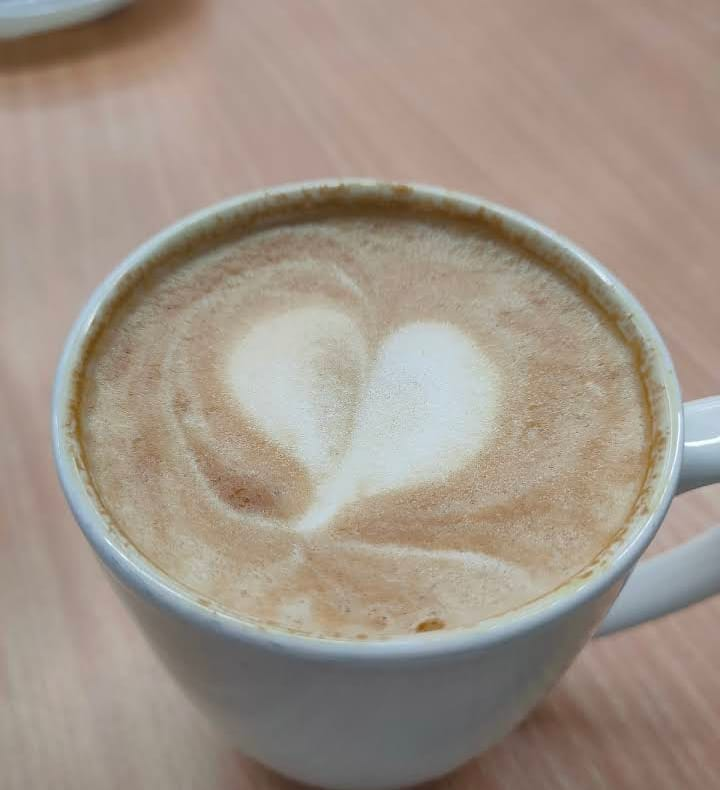
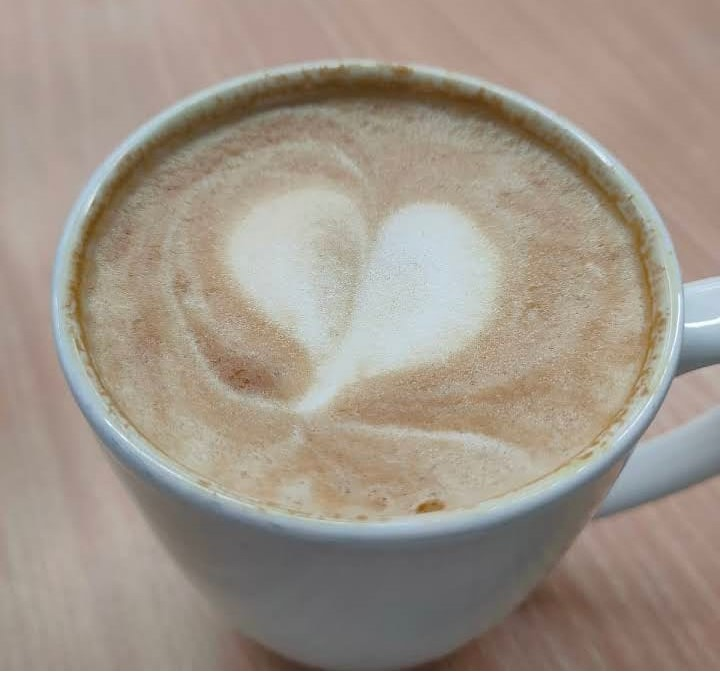
feat: add curated house favorites section

diff --git a/components/home/BestSellers.tsx b/components/home/BestSellers.tsx
@@ -1,0 +1,235 @@
+"use client";
+
+import Image from "next/image";
+import Link from "next/link";
+import { useEffect, useState } from "react";
+
+interface MenuItem {
+  id: string;
+  name: string;
+  price: number | null;
+  description: string;
+  category: string;
+  tag?: string;
+}
+
+interface FeaturedItem {
+  id: string;
+  displayName: string;
+  image: string;
+  tag: string;
+  filter: "Coffee & Drinks" | "Savory Food" | "Desserts";
+  displayDescription: string;
+}
+
+interface DisplayItem extends MenuItem {
+  displayName: string;
+  image: string;
+  displayTag: string;
+  filter: FeaturedItem["filter"];
+  displayDescription: string;
+}
+
+const featuredItems: FeaturedItem[] = [
+ {
+  id: "mango-smoothie",
+  displayName: "Mango Smoothie",
+  image: "/gallery/Mango Smoothie.jpeg",
+  tag: "Refreshing",
+  filter: "Coffee & Drinks",
+  displayDescription: "A refreshing mango smoothie.",
+},
+ {
+  id: "dairy-milk-chocolate-slice",
+  displayName: "Dairy Milk Cake",
+  image: "/gallery/Cake.jpeg",
+  tag: "Popular",
+  filter: "Desserts",
+  displayDescription: "Rich dairy milk chocolate cake.",
+},
+  {
+  id: "food-story-special",
+  displayName: "Food Story Pizza",
+  image: "/gallery/Pizzas.jpeg",
+  tag: "Signature",
+  filter: "Savory Food",
+  displayDescription: "Topped with chicken fajita, olives, and fresh cheese.",
+},
+  {
+  id: "lemonade",
+  displayName: "Mint Margarita",
+  image: "/gallery/Mint Margarita.jpeg",
+  tag: "Refreshing",
+  filter: "Coffee & Drinks",
+  displayDescription: "A refreshing mint margarita.",
+},
+ {
+  id: "cafe-latte",
+  displayName: "Signature Latte",
+  image: "/gallery/Coffee.jpeg",
+  tag: "Signature",
+  filter: "Coffee & Drinks",
+  displayDescription: "Smooth and creamy signature latte.",
+},
+ {
+  id: "grilled-chicken-panini",
+  displayName: "Club Sandwich",
+  image: "/gallery/Sandwich.jpeg",
+  tag: "Popular",
+  filter: "Savory Food",
+  displayDescription: "A satisfying grilled chicken sandwich.",
+},
+];
+
+export default function BestSellers() {
+  const [items, setItems] = useState<DisplayItem[]>([]);
+  const [activeFilter, setActiveFilter] = useState("All Items");
+
+  useEffect(() => {
+    async function fetchMenu() {
+      try {
+        const response = await fetch("/api/menu");
+
+        if (!response.ok) {
+          throw new Error("Failed to fetch menu");
+        }
+
+        const data: MenuItem[] = await response.json();
+
+        const selectedItems: DisplayItem[] = featuredItems
+          .map((featured) => {
+            const menuItem = data.find(
+              (item) => item.id === featured.id
+            );
+
+            if (!menuItem) {
+              return null;
+            }
+
+           return {
+            ...menuItem,
+            displayName: featured.displayName,
+            image: featured.image,
+            displayTag: featured.tag,
+            filter: featured.filter,
+            displayDescription: featured.displayDescription,
+            };
+          })
+          .filter((item): item is DisplayItem => item !== null);
+
+        setItems(selectedItems);
+      } catch (error) {
+        console.error("Error fetching menu:", error);
+      }
+    }
+
+    fetchMenu();
+  }, []);
+
+  return (
+    <section className="border-t border-stone-200/80 bg-[#F6F4EF] py-20">
+      <div className="mx-auto max-w-7xl px-6 md:px-10 lg:px-12">
+
+        {/* Section Divider */}
+        <div className="mb-12 flex items-center justify-center gap-3 text-xs font-semibold uppercase tracking-wider text-[#9E3B1C]">
+          <span className="h-px flex-1 bg-stone-300/60" />
+
+          <span>✦ Curated House Favorites</span>
+
+          <span className="h-px flex-1 bg-stone-300/60" />
+        </div>
+
+        {/* Section Heading */}
+        <div className="mx-auto max-w-2xl text-center">
+          <h2 className="font-serif text-3xl text-stone-900 md:text-4xl">
+            Favorites Worth Trying
+          </h2>
+
+          <p className="mt-5 text-base leading-7 text-[#625852] md:text-lg">
+            A selection of Food Story favorites, from refreshing drinks and
+            handcrafted coffee to satisfying meals and sweet treats.
+          </p>
+        <div className="mt-8 flex flex-wrap justify-center gap-3">
+            {["All Items", "Coffee & Drinks", "Savory Food", "Desserts"].map(
+                (filter) => (
+                <button
+                    key={filter}
+                    type="button"
+                    onClick={() => setActiveFilter(filter)}
+                    className={`rounded-full border px-5 py-2.5 text-sm font-medium transition ${
+                    activeFilter === filter
+                        ? "border-[#9E3B1C] bg-[#9E3B1C] text-white"
+                        : "border-stone-300 bg-white text-[#625852] hover:border-[#9E3B1C] hover:text-[#9E3B1C]"
+                    }`}
+                >
+                    {filter}
+                </button>
+                )
+            )}
+        </div>
+        </div>
+
+        {/* Featured Items */}
+        <div className="mt-12 grid grid-cols-1 gap-6 sm:grid-cols-2 lg:grid-cols-3">
+        {items
+            .filter(
+                (item) =>
+                activeFilter === "All Items" || item.filter === activeFilter
+            )
+            .map((item) => (
+            <article
+              key={item.id}
+              className="group flex h-full flex-col overflow-hidden rounded-3xl border border-stone-200/60 bg-white shadow-md transition duration-300 hover:-translate-y-1 hover:shadow-lg"
+            >
+              {/* Image */}
+              <div className="relative aspect-4/3 w-full overflow-hidden bg-[#F4F1EA]">
+                <Image
+                  src={item.image}
+                  alt={`${item.displayName} at Food Story Cafe`}
+                  fill
+                  sizes="(max-width: 640px) 100vw, (max-width: 1024px) 50vw, 33vw"
+                  className="h-full w-full object-contain object-center p-2"
+                />
+
+                <span className="absolute left-4 top-4 rounded bg-white/90 px-2 py-0.5 text-[10px] font-semibold text-[#9E3B1C] backdrop-blur-sm">
+                  {item.displayTag}
+                </span>
+              </div>
+
+              {/* Card Content */}
+              <div className="flex flex-1 flex-col justify-between p-6">
+                <div className="flex items-start justify-between gap-4">
+                  <h3 className="font-serif text-2xl font-semibold text-[#2C221E]">
+                    {item.displayName}
+                  </h3>
+
+                  {item.price !== null && (
+                    <span className="shrink-0 text-sm font-semibold text-[#9E3B1C]">
+                      Rs. {item.price}
+                    </span>
+                  )}
+                </div>
+
+                <p className="mt-3 text-sm leading-6 text-[#625852]">
+                 {item.displayDescription}
+                </p>
+              </div>
+            </article>
+          ))}
+        </div>
+
+        {/* View Full Menu */}
+        <div className="mt-10 flex justify-center">
+          <Link
+            href="/menu"
+            className="inline-flex items-center rounded-full bg-[#9E3B1C] px-7 py-3 text-sm font-semibold text-white transition duration-300 hover:bg-[#7f2f17]"
+          >
+            View Full Menu
+            <span className="ml-2">→</span>
+          </Link>
+        </div>
+
+      </div>
+    </section>
+  );
+}

diff --git a/app/page.tsx b/app/page.tsx
@@ -1,10 +1,12 @@
 import HeroSection from "@/components/home/HeroSection";
 import ExperienceSection from "@/components/home/ExperienceSection";
+import BestSellers from "@/components/home/BestSellers";
 export default function Home() {
   return (
     <main>
       <HeroSection />
       <ExperienceSection />
+      <BestSellers />
     </main>
   );
 }
